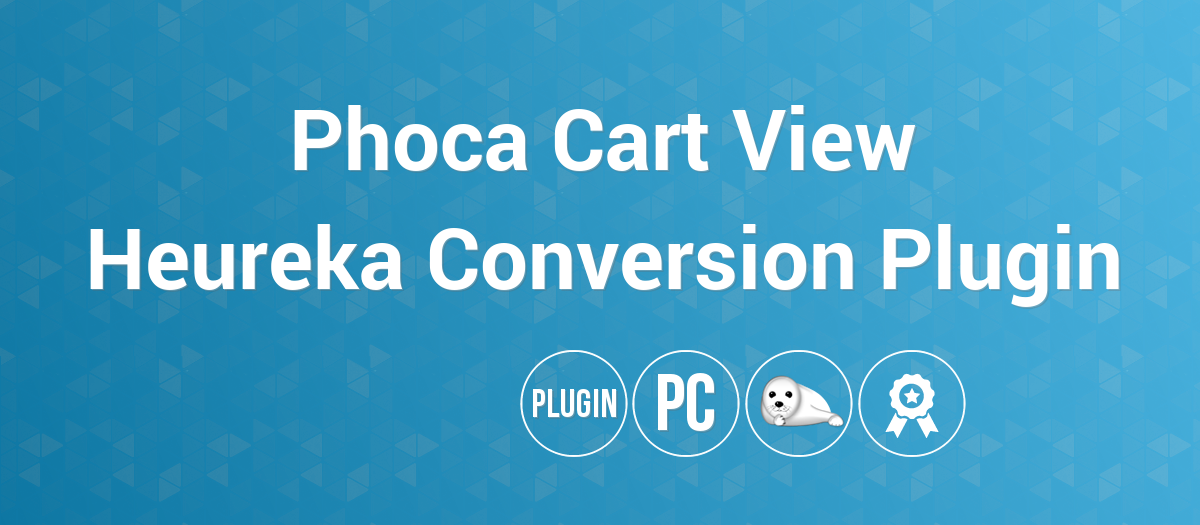
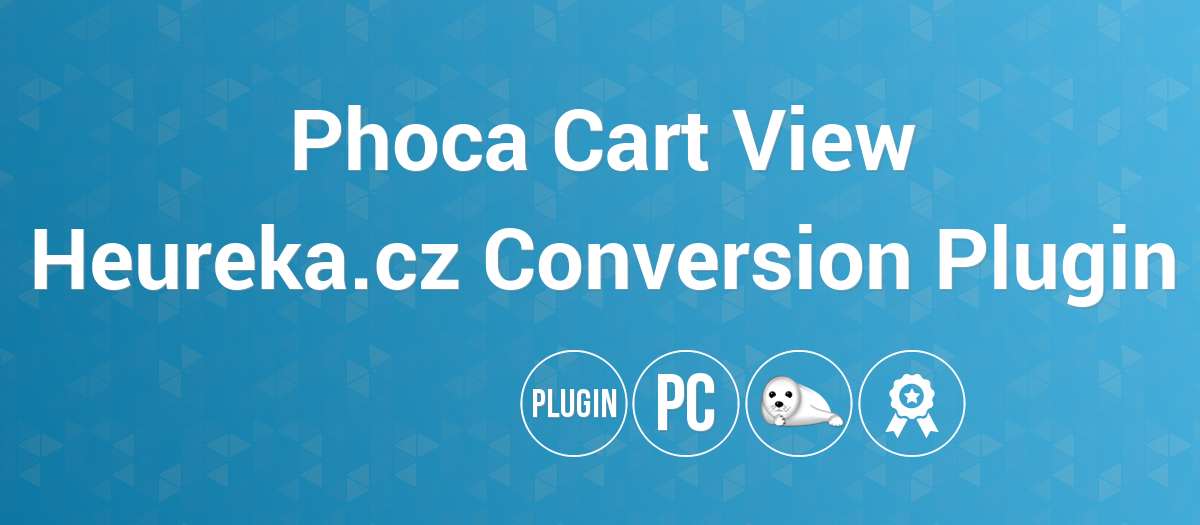
4.0.4

Changed region(s): [[0.0308, 0.4267, 0.9867, 0.6095]]

diff --git a/README.MD b/README.MD
@@ -2,19 +2,19 @@
 
 
 
-![Phoca Cart View Heureka Conversion Plugin](https://github.com/PhocaCz/PhocaCartViewHeurekaConversionPlugin/blob/main/heureka_conversion.png?raw=true)
+![Phoca Cart View Heureka.cz Conversion Plugin](https://github.com/PhocaCz/PhocaCartViewHeurekaConversionPlugin/blob/main/heureka_conversion.png?raw=true)
 
-# Phoca Cart View Heureka Conversion Plugin
+# Phoca Cart View Heureka.cz Conversion Plugin
 
 
 
-Phoca Cart View - Heureka Conversion Plugin - plugin that adds the Heureka conversion code when the order is successfully completed in Phoca Cart
+Phoca Cart View - Heureka.cz Conversion Plugin - plugin that adds the Heureka conversion code when the order is successfully completed in Phoca Cart
 
 
 
 ## Project page
 
-[Phoca Cart View Heureka Conversion Plugin](https://www.phoca.cz/phocacart-extensions/2-plugins/73-phoca-cart-view-heureka-conversion-plugin)
+[Phoca Cart View Heureka.cz Conversion Plugin](https://www.phoca.cz/phocacart-extensions/2-plugins/73-phoca-cart-view-heureka-conversion-plugin)
 
 [Phoca Cart Info Page](https://www.phoca.cz/project/phocacart-joomla-ecommerce)
 
